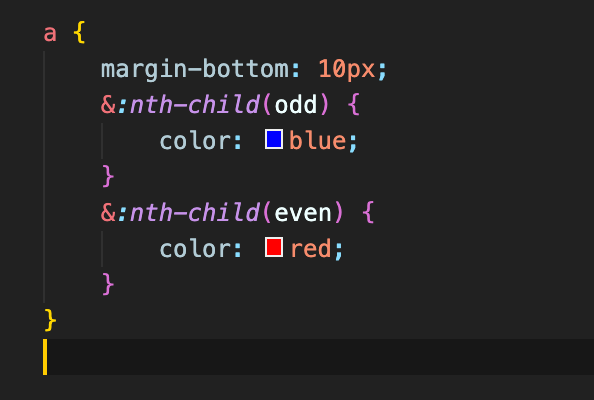
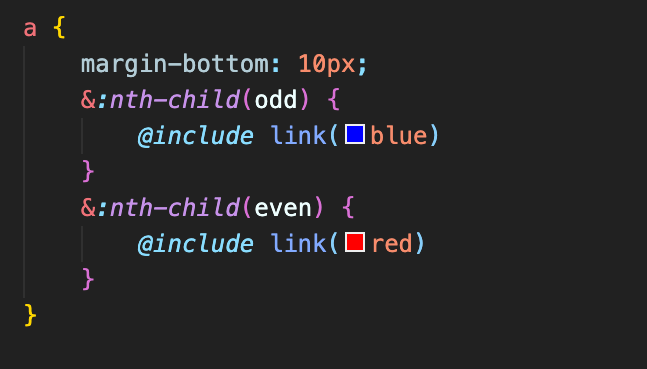
Update

diff --git a/scss/dest/css/styles.css b/scss/dest/css/styles.css
@@ -1,1 +1,1 @@
-a,button{font-family:inherit;border-radius:7px;font-size:12px;text-transform:uppercase;padding:5px 10px;background-color:peru;color:#fff;font-weight:500}a{text-decoration:none}button{border:0}
+a,button{font-family:inherit;border-radius:7px;font-size:12px;text-transform:uppercase;padding:5px 10px;background-color:peru;color:#fff;font-weight:500}a{margin-bottom:10px;text-decoration:none}a:nth-child(even),a:nth-child(odd){text-decoration:none;display:block;color:#00f}a:nth-child(even){color:red}button{border:0}

diff --git a/scss/src/scss/styles.scss b/scss/src/scss/styles.scss
@@ -13,15 +13,15 @@
 //     }
 // }
 
-// a {
-//     margin-bottom: 10px;
-//     &:nth-child(odd) {
-//         color: blue;
-//     }
-//     &:nth-child(even) {
-//         color: red;
-//     }
-// }
+a {
+    margin-bottom: 10px;
+    &:nth-child(odd) {
+        @include link(blue)
+    }
+    &:nth-child(even) {
+        @include link(red)
+    }
+}
 
 a {
     @extend %button;
